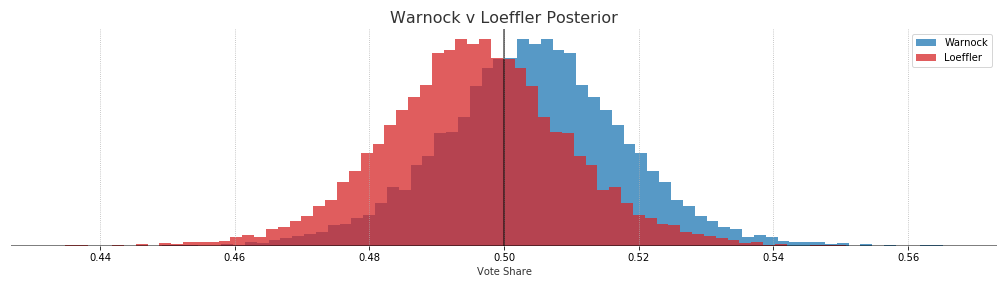
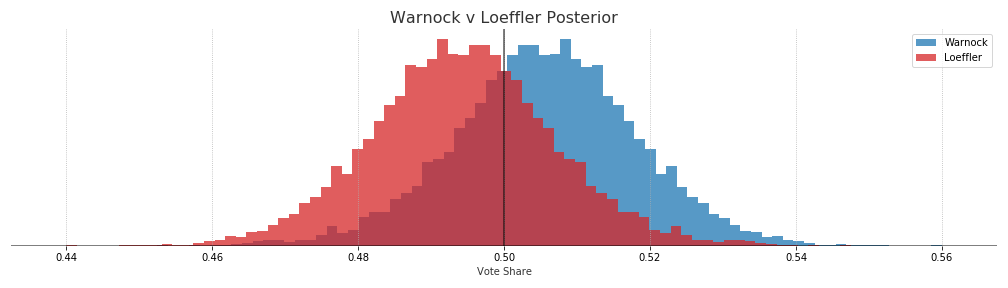
added atlasintel

diff --git a/_posts/2020-12-18-election.md b/_posts/2020-12-18-election.md
@@ -6,12 +6,12 @@ published: True
 
 Updated: Jan 2, 2020
 
-# Warnock: 63.4% - Loeffler: 36.6% 
+# Warnock: 68.8% - Loeffler: 31.2% 
 
 {: .center}
 ![WL Posterior](../images/ga_wl_posteriors.png)
 
-# Ossoff: 52.5% - Perdue: 47.5% 
+# Ossoff: 58.0% - Perdue: 42.0% 
 
 {: .center}
 ![WL Posterior](../images/ga_op_posteriors.png)
@@ -22,10 +22,10 @@ Updated: Jan 2, 2020
 
 | Candidate | Mean | 80% Interval |
 | ----------|------|--------------|
-| Ossoff    | 50.1 | 48.3 - 52.0  |
-| Perdue    | 49.9 | 48.0 - 51.7  |
-| Warnock   | 50.4 | 48.7 - 52.1  |
-| Loeffler  | 49.6 | 47.9 - 51.3  |
+| Ossoff    | 50.2 | 48.6 - 51.9  |
+| Perdue    | 49.8 | 48.1 - 51.4  |
+| Warnock   | 50.6 | 48.9 - 52.1  |
+| Loeffler  | 49.4 | 47.9 - 51.1  |
 
 ## Methods
 
